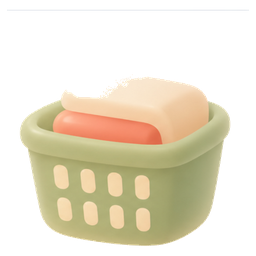
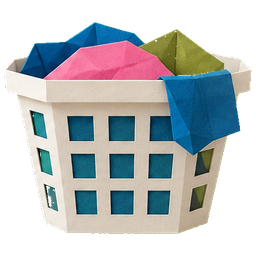
DA papier appliquée à toute l'app (décision Jeanne 5 nov : le deuxième test) : palette gris-violet / blanc cassé / carmin / vert citron, prune la nuit ; décor papier comme pièce ; Mochi en image papier par défaut ; icônes lot 1 en papier découpé ; Balance via MochiImage

diff --git a/src/theme-v3.js b/src/theme-v3.js
@@ -8,13 +8,14 @@ import AsyncStorage from '@react-native-async-storage/async-storage';
 
 const JOUR = {
   night: false,
-  bg: '#F7F2E9', ink: '#2B2420', muted: '#9A8F84', line: 'rgba(43,36,32,0.10)', seg: 'rgba(43,36,32,0.08)', accent: '#E0725C', ok: '#7E9463',
-  scene: { wall: '#F2E4D0', floor: '#DCC2A3', window: '#DCEAF0', hill: '#A9C49A', sofa: '#E29C80', cushion: '#F3CDB6', plant: '#7FA574', pot: '#C7784F', rug: '#E7CDB0', lamp: '#F7DFA8', lampOn: false, frame: '#D7B68F', shelf: '#CFB08C', book1: '#C7784F', book2: '#7FA574', vase: '#EAD6BC', stool: '#CFB08C', curtain: '#E7B9A2', shadow: 'rgba(43,36,32,0.10)', sun: '#F7DFA8', moon: null, stars: false }, // plus chaud et plus franc (retour Jeanne 4 nov 2026 : « un peu triste »)
+  // DA papier (décision Jeanne 5 nov 2026) : gris-violet mat, blanc cassé, carmin, vert citron
+  bg: '#4E4660', ink: '#F4EFE8', muted: '#B8AFC4', line: 'rgba(244,239,232,0.16)', seg: 'rgba(244,239,232,0.16)', accent: '#D9483E', ok: '#BFD94A',
+  scene: { wall: '#4E4660', floor: '#5A5068', window: '#DCEAF0', hill: '#A9C49A', sofa: '#E29C80', cushion: '#F3CDB6', plant: '#7FA574', pot: '#C7784F', rug: '#E7CDB0', lamp: '#F7DFA8', lampOn: false, frame: '#D7B68F', shelf: '#CFB08C', book1: '#C7784F', book2: '#7FA574', vase: '#EAD6BC', stool: '#CFB08C', curtain: '#E7B9A2', shadow: 'rgba(43,36,32,0.10)', sun: '#F7DFA8', moon: null, stars: false }, // plus chaud et plus franc (retour Jeanne 4 nov 2026 : « un peu triste »)
 };
 const NUIT = { // bleu marine, pas noir (retour Jeanne 4 nov 2026 : « fond noir trop foncé, pas très lisible »)
   night: true,
-  bg: '#141B30', ink: '#F2F0EB', muted: '#8E95AD', line: 'rgba(242,240,235,0.14)', seg: 'rgba(242,240,235,0.14)', accent: '#F08A78', ok: '#9DB894',
-  scene: { wall: '#1B2440', floor: '#243052', window: '#17224A', hill: '#2B4A46', sofa: '#4E4250', cushion: '#60525A', plant: '#35584A', pot: '#6E4B38', rug: '#2B3758', lamp: '#F2C878', lampOn: true, frame: '#33405F', shelf: '#3A4668', book1: '#6E4B38', book2: '#35584A', vase: '#4A4048', stool: '#46425A', curtain: '#4A3A52', shadow: 'rgba(0,0,0,0.45)', sun: null, moon: '#F2F0EB', stars: true },
+  bg: '#2E2140', ink: '#F4EFE8', muted: '#A89BB8', line: 'rgba(244,239,232,0.14)', seg: 'rgba(244,239,232,0.14)', accent: '#E05A50', ok: '#BFD94A',
+  scene: { wall: '#2E2140', floor: '#3A2C4A', window: '#17224A', hill: '#2B4A46', sofa: '#4E4250', cushion: '#60525A', plant: '#35584A', pot: '#6E4B38', rug: '#2B3758', lamp: '#F2C878', lampOn: true, frame: '#33405F', shelf: '#3A4668', book1: '#6E4B38', book2: '#35584A', vase: '#4A4048', stool: '#46425A', curtain: '#4A3A52', shadow: 'rgba(0,0,0,0.45)', sun: null, moon: '#F2F0EB', stars: true },
 };
 export const TOKENS = { jour: JOUR, nuit: NUIT };
 // typo de l'instrument : étiquettes en phrase normale, chiffres tabulaires, pas de capitales espacées

diff --git a/src/components/mochi-img.js b/src/components/mochi-img.js
@@ -6,6 +6,10 @@ import { Image, Pressable } from 'react-native';
 import Animated, { useSharedValue, useAnimatedStyle, withRepeat, withTiming, withSpring, withSequence, withDelay, Easing } from 'react-native-reanimated';
 
 export const MOCHI_RATIO = 191 / 235; // hauteur / largeur du canevas
+// DA papier (5 nov 2026) : une seule image de Mochi pour l'instant (assets/mochi/papier.png, 512 × 433) ; les humeurs et
+// inclinaisons reviendront avec une planche dans cette matière. `source` explicite reste prioritaire.
+const PAPIER = require('../../assets/mochi/papier.png');
+export const PAPIER_RATIO = 433 / 512;
 const FRAMES = { // pas de « + » ni de « - » dans les noms : Metro ne résout pas ces fichiers
   '-3': require('../../assets/mochi/leanm3.png'), '-2': require('../../assets/mochi/leanm2.png'), '-1': require('../../assets/mochi/leanm1.png'),
   '0': require('../../assets/mochi/leanp0.png'),
@@ -21,7 +25,8 @@ export const frameFor = (lean, mood) => (mood && MOODS[mood]) || FRAMES[String(M
 export function MochiImage({ size = 140, lean = 0, mood, style, source }) {
   // humeur ≠ content : le cadre de face, incliné par rotation (les inclinaisons dessinées n'existent qu'avec le sourire)
   const tilt = mood && MOODS[mood] ? [{ rotate: `${(lean || 0) * 8}deg` }] : [];
-  return <Image source={source || frameFor(lean, mood)} style={[{ width: size, height: size * MOCHI_RATIO, transform: tilt }, style]} resizeMode="contain" accessibilityIgnoresInvertColors />;
+  const src = source || PAPIER; const ratio = source ? MOCHI_RATIO : PAPIER_RATIO;
+  return <Image source={src} style={[{ width: size, height: size * ratio, transform: tilt }, style]} resizeMode="contain" accessibilityIgnoresInvertColors />;
 }
 
 // réaction partagée : une coche n'importe où → secousse

diff --git a/app/(tabs)/balance.js b/app/(tabs)/balance.js
@@ -7,7 +7,7 @@ import { SafeAreaView } from 'react-native-safe-area-context';
 import { CountUp } from '../../src/components/motion';
 import { Label, Num, Hair } from '../../src/components/mochi/gauges';
 import { useTokens, type, layout } from '../../src/theme-v3';
-import { frameFor, MOCHI_RATIO } from '../../src/components/mochi-img';
+import { MochiImage } from '../../src/components/mochi-img';
 import { members, me, partner, taskById, fmtMin } from '../../src/demo';
 import { shares, balanceState, weekInfo, malusItems, dayMinutes } from '../../src/demo-balance';
 import { missionDone, occStore, weekDays } from '../../src/demo-core';
@@ -97,7 +97,7 @@ export default function Balance() {
 
           {/* Mochi penche vers qui porte plus */}
           <Pressable onPress={() => router.push('/balance-detail')} style={{ paddingHorizontal: X, paddingTop: 18 * A, flexDirection: 'row', alignItems: 'center', gap: 16 }}>
-            <Image source={frameFor(lean, mood)} style={{ width: 64, height: 64 * MOCHI_RATIO, transform: [{ rotate: `${(lean || 0) * 8}deg` }] }} resizeMode="contain" />
+            <MochiImage size={64} lean={lean} mood={mood} />
             <Text style={[type.sub, { color: T.ink, flex: 1 }]}>{stateLabel}</Text>
           </Pressable>
 

diff --git a/src/components/mochi/scene.js b/src/components/mochi/scene.js
@@ -65,6 +65,7 @@ export function Scene({ T, stage = 'mini', mood, lvl = 1, away = false, height =
     <View style={{ height: hh, backgroundColor: c.wall, overflow: 'hidden' }}>
       {backdrop ? <Image source={backdrop} style={{ position: 'absolute', left: 0, right: 0, top: 0, bottom: 0, width: '100%', height: '100%' }} resizeMode="cover" accessibilityIgnoresInvertColors /> : null}
       {backdrop ? null : <S l={0} r={0} b={0} h={fl2} c={c.floor} />}
+      {backdrop && night ? <S l={0} r={0} t={0} b={0} c={c.wall} op={0.45} /> : null}
       {/* tapis à plat, sous Mochi */}
       {backdrop ? null : <>
       <Im k="rug" l={SW * 0.28} w={SW * 0.44} b={fl2 - 30} h={44} op={0.95} />

diff --git a/TODO.md b/TODO.md
@@ -380,4 +380,4 @@ Décisions Jeanne (tableau de bord, 4 nov 2026) : coucher du foyer 22 h (migrati
 4 nov 2026 (14 h) — **Suite de la repasse n°1** : (1) plus d'empreintes en balade, jauge et cœurs sans pulsation (fondu), respiration de Mochi discrète (retour « j'aime pas les pulsations ») ; (2) **la pièce pleine dès le jour 1** (`scene.js` refait : ciel + colline dans l'arche, rideau, tapis, table, étagère, cadre ; palier 2 lampe + plante d'étagère, 3 banquette, 4 cadres), palette plus chaude (`theme-v3` scene), micro-mouvements (plante `Sway`, lampe et étoiles `Glow` la nuit), **bande de balade** départ → retour sous la phrase (`WalkBand`, Accueil) ; (3) **nos icônes à la place des emoji** (`src/components/task-icon.js`, ~45 tracés 24 px trait 1,7 ; la colonne `emoji` reste la clé, inconnu → icône générique) sur Accueil, Planning, Balance, Budget, À faire, Jour, Calendrier, Ping, setup, réglages, sélecteur (`emoji-picker.js` rend des icônes) — à comparer avec une version ChatGPT si Jeanne veut plus d'illustration ; (4) **setup** : `SetupHeader` avec « Étape n sur 4 · pourquoi » (`copy.setup.why*`), titre/sous-titre v3, l'œuf (`Egg`) en héros sur identité, dispos, prefs, invite, tâches, dispatch. Vu au simulateur : Accueil jour et nuit (navy, étoiles, lampe), Planning, Profil, identité, dispos. Reste pour Jeanne : repasse n°2. Pas fait : couches de maison par ChatGPT (la pièce en formes plates a été densifiée à la place, à trancher à la repasse), onboarding/paywall en nuit.
 4 nov 2026 (15 h) — **Pictos : décision Jeanne = D + B.** D = images dans la matière de Mochi (ChatGPT, référence `assets/mochi/leanp0.png`) pour tout ce qui se fait (tâches, dépenses, pense-bêtes) ; B = trait 1,9 sur pastille douce pour l'outil (tab bar, réglages, « + », sélecteur). `task-icon.js` : table `IMG` (image si elle existe, sinon trait sur pastille), `keyFor`. **Lot 1 fait** (vaisselle, courses, lessive, ménage, poubelles, calendrier → `assets/icones/`, planche source `assets/icones-test/planche-chatgpt.png`, découpe PIL floodfill seuil 28). **41 icônes en 7 lots** listées avec leurs prompts dans `design/icones/LISTE.md`. ⚠ Le compte ChatGPT de Jeanne est « out of usage » depuis le lot 1 (bouton « Request more usage ») : les lots 2-7 attendent. Conversation ChatGPT « Créer icônes ménagères ». Proto de comparaison : `/proto-pictos?v=a|b|c|d`. Mode nuit du simulateur remis sur Auto (⚠ iky est aussi installée sur le Pro Max et une autre session l'y pilote : deux de mes taps ont atterri dans iky).
 4 nov 2026 (16 h) — **Une seule matière partout** (retour Jeanne : « y a pas le Mochi », « c'est plus la même DNA que les pictos ») : la pièce est maintenant en images ChatGPT dans la matière de Mochi (`assets/maison/` : window, curtain, shelf, table, sofa, lamp, rug, frame, plant + egg, egg-crack, egg-open ; planches sources `planche-chatgpt.png`, `planche-oeuf.png` ; prompts dans `design/icones/MAISON-prompt.md`), posées sur mur et sol plats aux mêmes positions/paliers ; nuit = voile navy 50 % + lune/étoiles/lampe. L'œuf est une image (scène, setup, Duo formé). **Éclosion quand le duo est formé** (deux membres dans le foyer ; correction Jeanne 16 h 30 après un passage par « première mission cochée ») — l'écran Duo formé joue l'éclosion (œuf fêlé 1,4 s → Mochi + bulle) — et `tick()` tourne à l'ouverture de l'Accueil → le foyer de test a éclos (Jour 1 · palier 1). Vu au simulateur : Accueil (Mochi dans sa pièce), moment palier, Duo formé, Identité. ChatGPT a finalement accepté les générations (la limite « out of usage » est partie) : lots 2-7 des icônes à lancer. Reste : `egg-crack`/`egg-open` à jouer dans le moment d'éclosion (pas branché), nuit à revérifier sur la pièce en images.
-5 nov 2026 — **Décision DA après une journée d'essais : on garde la matière de Mochi.** Chronologie : la pièce en meubles découpés (« collage », « tiède ») → décors entiers ChatGPT A calme / B vivant / D soirée (`assets/decor/`) → Jeanne envoie une référence aérographe mate (poupées, papier plié, fond prune) → tests Figma generate_image (`design/tests-aerographe`, `design/tests-mat-papier`, proto `/proto-da2?v=mochi|papier|p1|p2|p3|g`, `assets/proto-da/`) → « trop réaliste », « Mochi ressemble à un bébé », « cringe », puis « c'était la DNA, pas le côté cirque/bébé » → test graphique à plat (`v=g`) → **« je préfère l'ancien »**. Résultat : `Scene` prend par défaut le décor entier B le jour et D la nuit (`assets/maison/decor-jour.png`, `decor-nuit.png`), Mochi posé devant sur le tapis ; les meubles découpés restent disponibles (`backdrop={null}`). Icônes : images matière de Mochi (lot 1) + trait sur pastille en attendant. Les essais papier/aérographe restent dans le repo pour mémoire, à ne pas reprendre. Reste : paliers sur le décor (objets qui apparaissent), bande claire derrière la date/perles sur le décor, lots 2-7 des icônes (ChatGPT « out of usage » par vagues), nuit à vérifier, repasse n°2.
+5 nov 2026 — **Décision DA après une journée d'essais : on garde la matière de Mochi.** Chronologie : la pièce en meubles découpés (« collage », « tiède ») → décors entiers ChatGPT A calme / B vivant / D soirée (`assets/decor/`) → Jeanne envoie une référence aérographe mate (poupées, papier plié, fond prune) → tests Figma generate_image (`design/tests-aerographe`, `design/tests-mat-papier`, proto `/proto-da2?v=mochi|papier|p1|p2|p3|g`, `assets/proto-da/`) → « trop réaliste », « Mochi ressemble à un bébé », « cringe », puis « c'était la DNA, pas le côté cirque/bébé » → test graphique à plat (`v=g`) → « je préfère l'ancien » = **le deuxième test, la DA mat / papier plié** (précision « non, celle-là »). **Résultat (5 nov, soir) : DA papier appliquée à toute l'app** — `theme-v3` JOUR = gris-violet `#4E4660` / blanc cassé / carmin `#D9483E` / vert citron, NUIT = prune `#2E2140` ; `Scene` affiche le décor papier (`assets/maison/decor-jour.png` = `decor-nuit.png` pour l'instant, voile prune la nuit) ; Mochi = `assets/mochi/papier.png` (une seule pose, humeurs/inclinaisons à refaire dans cette matière) via `MochiImage` par défaut ; icônes lot 1 = papier découpé (`assets/icones/`). Les décors doux ChatGPT (A/B/D) restent dans `assets/decor/` pour mémoire. Reste : paliers sur le décor (objets qui apparaissent), bande claire derrière la date/perles sur le décor, lots 2-7 des icônes (ChatGPT « out of usage » par vagues), nuit à vérifier, repasse n°2.
